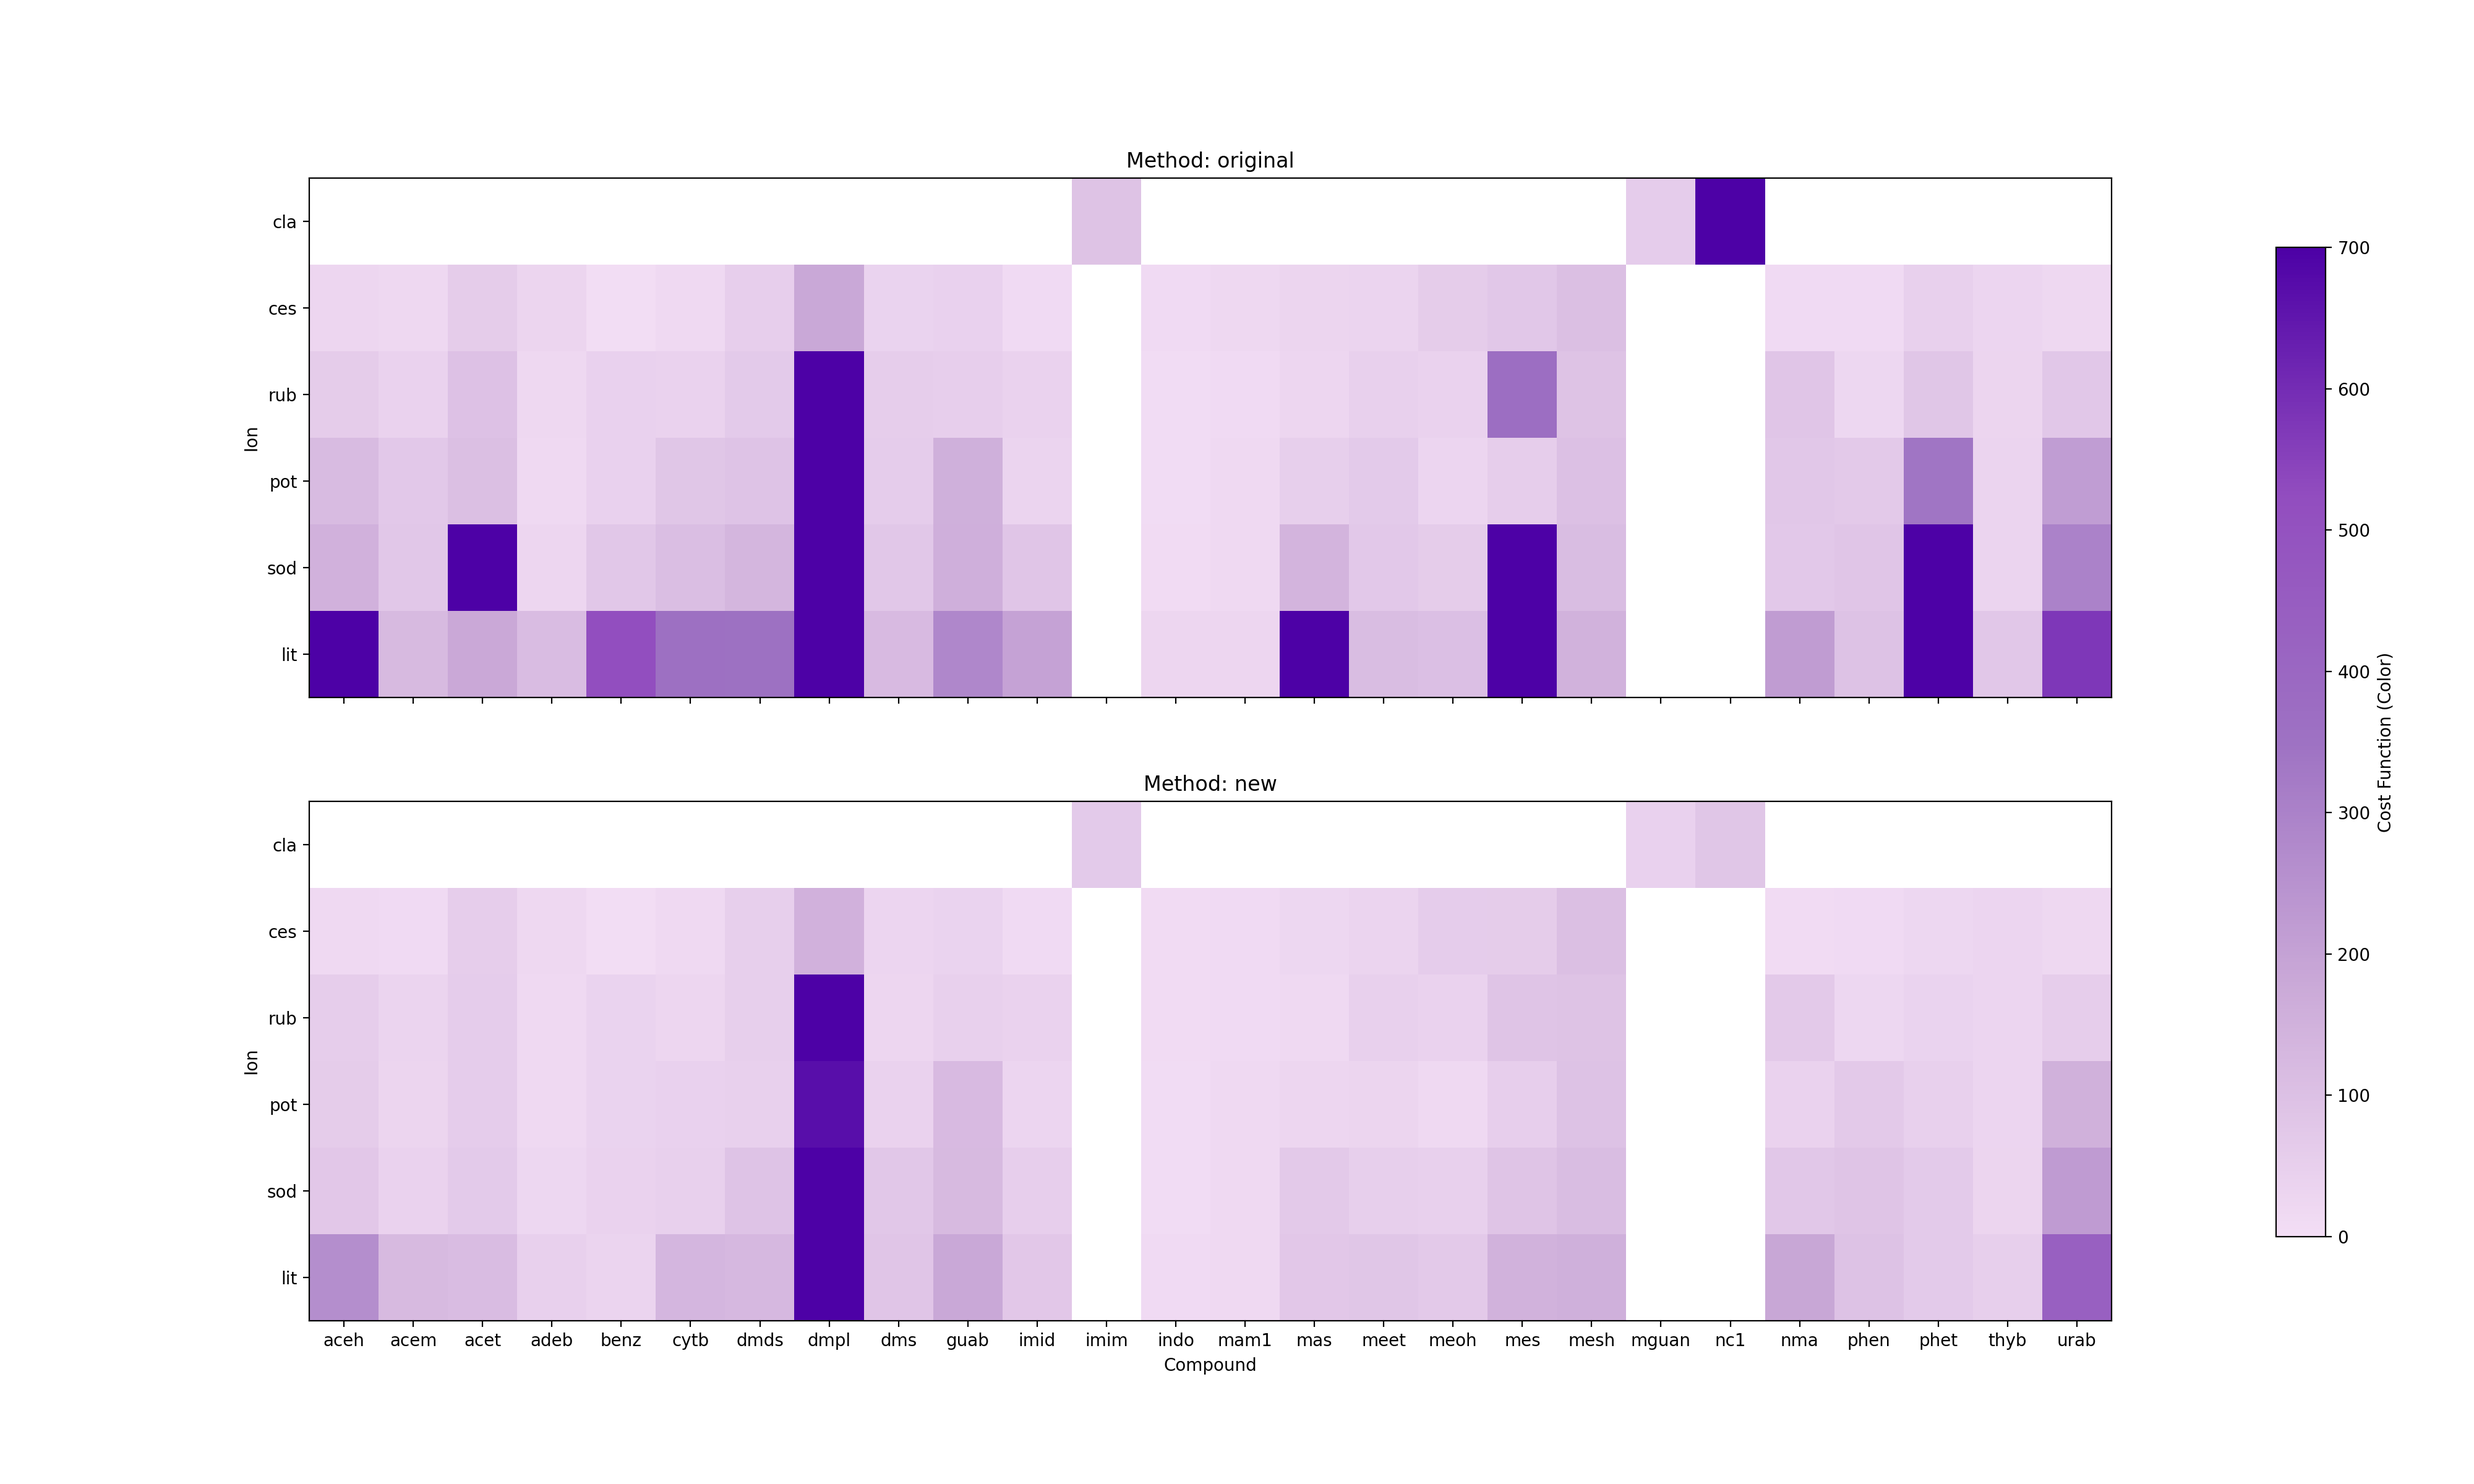
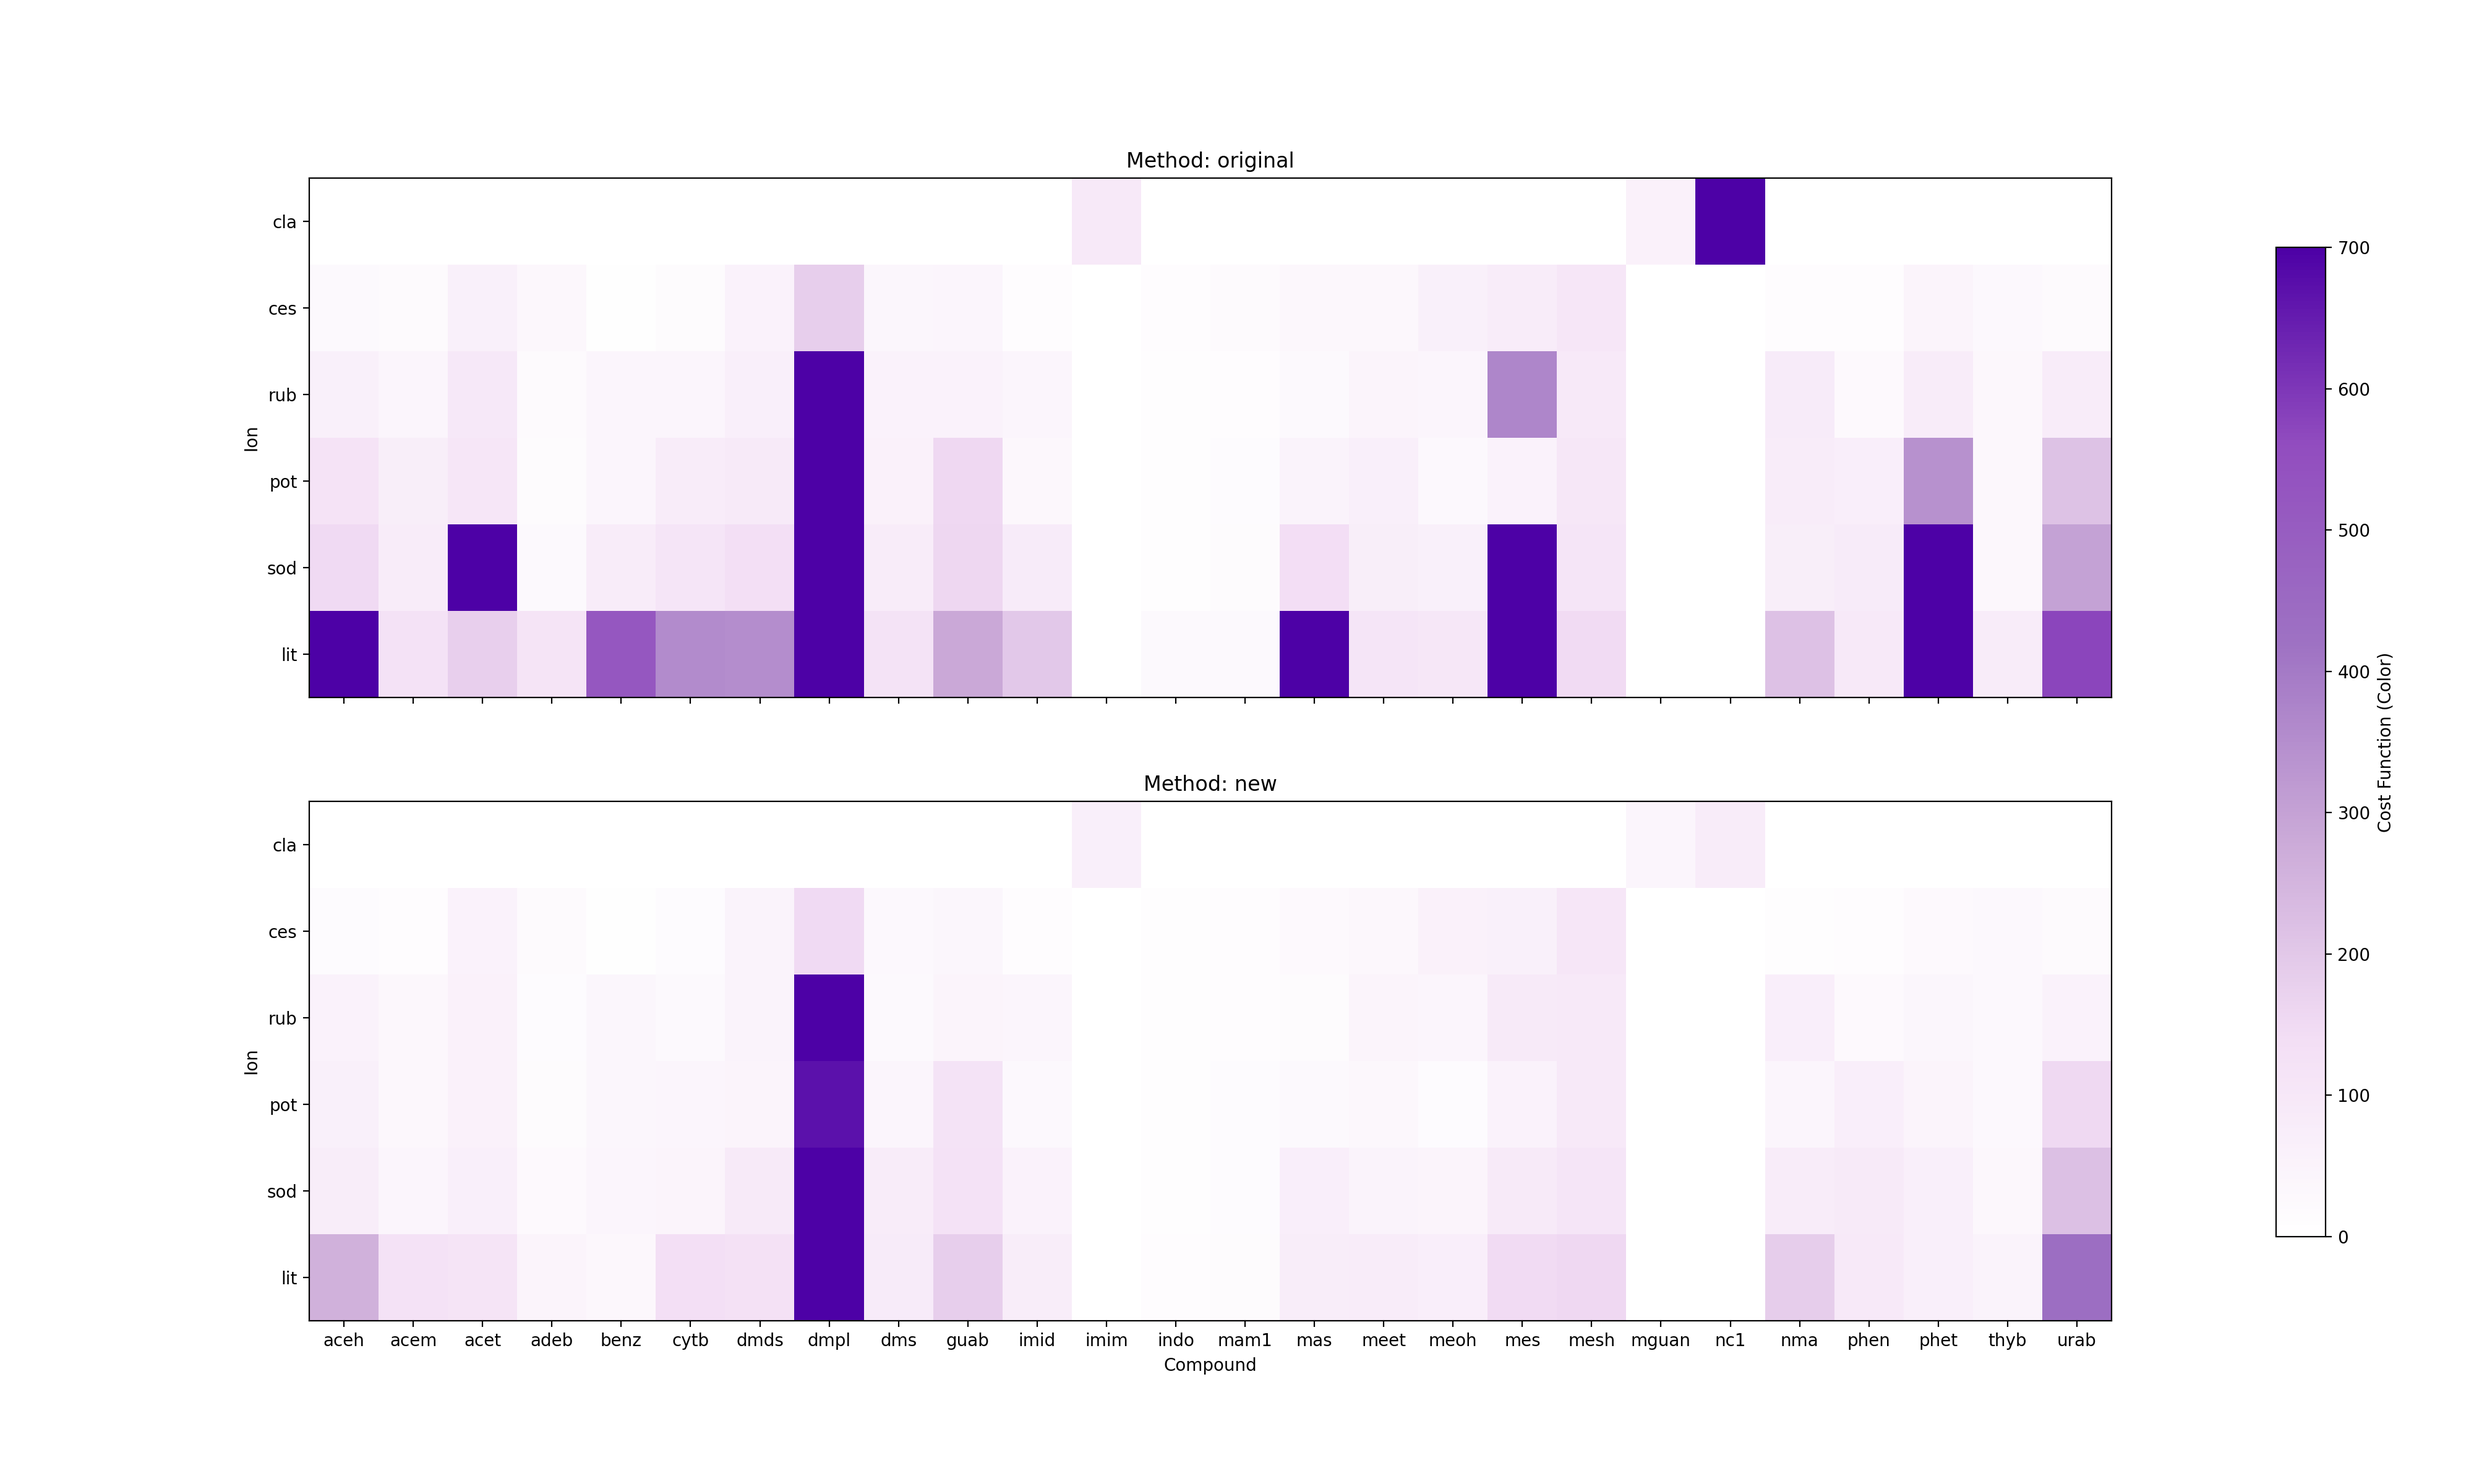
changed figure color

diff --git a/03_PESs/Data_report/03_view_cost_function.py b/03_PESs/Data_report/03_view_cost_function.py
@@ -27,7 +27,7 @@ y_order = ['lit', 'sod', 'pot', 'rub', 'ces', 'cla']
 
 # Define your custom colors
 #colors = ['#ded9f6','#c3b4e5','#a083c9','#8058ac', '#592986']  # Purple 
-colors = ['#f3def5', '#cbaad8', '#9e72c3', '#924dbf', '#4d01a6']  # Purple 
+colors = ['#FFFFFF','#f3def5', '#cbaad8', '#9e72c3', '#924dbf', '#4d01a6']  # Purple 
 #colors = ['#f3def5', '#9e72c3','#924dbf','#7338a0' ,'#4e008c']  
 #colors = ['#f6e7f1','#e5c8e5','#b583c9','#9358ac','#782986', '#592986']  
 
